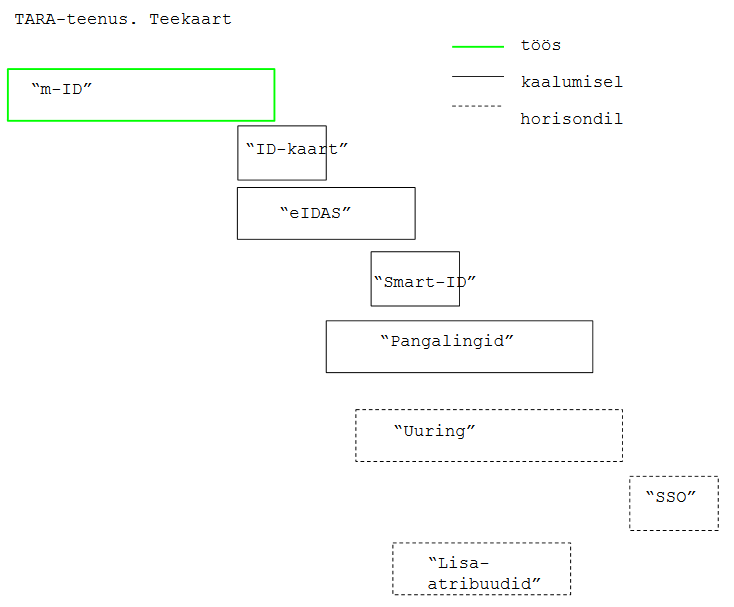
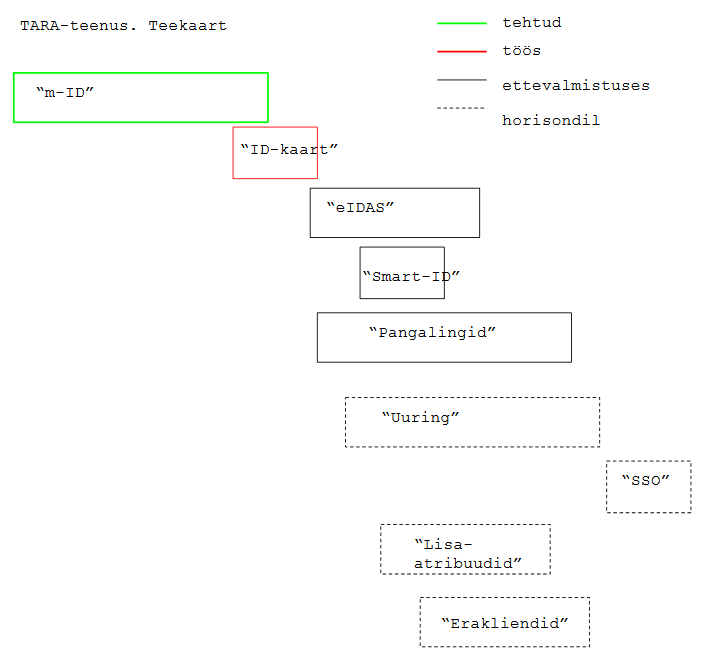
+

diff --git a/Teekaart.md b/Teekaart.md
@@ -18,8 +18,9 @@ Töös, kaalumisel ja horisondil on tööpaketid:
 | ***"Uuring"*** | Ühekordse sisselogimise (Single Sign-On, SSO) teenusele lisamise vajalikkuse ja teostatavuse uuring. Sisaldab _Proof of Concept" (PoC) lahenduse teostust ja selle hindamist. PoC ja hindamine v-o tellitakse eraldi.  | 2 nädalat PoC, 2 nädalat hindamine |
 | ***"SSO"*** | Ühekordse sisselogimise (SSO) teenusele lisamine, lähtudes eelnevalt tehtud uuringu tulemustest. Sisaldab uuringus tehtud PoC lahenduse viimistlemist, dokumenteerimist ja testimist. | 2 nädalat |
 | ***"Lisaatribuudid"*** | Teenuse laiendamine täiendavate atribuutide pakkumisega. Nt päring äriregistrisse esindusõiguse kindlakstegemiseks, päring Rahvastikuregistrisse, võimalik, et päring Personali- ja palgaandmete andmekogusse (SAP-i). | 2 nädalat |
+| ***Erakliendid*** | Tehnilised ja protseduurilised täiendused, mis võimaldavad teenust pakkuda ka erasektorile (teenuse kasutuse arvestus, arveldamine jms) |  |
 
-## I arendusjärk (töös)
+## I arendusjärk (valmis)
 
 | teetähis | tööd | tulemus | orienteeruv, minimaalne ajakava |
 |----------|------|---------|--------------|
@@ -29,40 +30,29 @@ Töös, kaalumisel ja horisondil on tööpaketid:
 | Testteenus avatud | RIA: 1) paneb üles keskkonna, mille vastu liidestujad saavad oma arendusi testida; 2) edaspidi teenindab liidestujaid liideste testimisel (konf-ne jms) | Liitujad saavad oma liideseid testteenuse vastu testida | 1 nädal |
 | Teenuse avamine toodangus | RIA: 1) avab teenuse toodangukeskkonna; 2) edaspidi laseb teenusekasutajad (pärast testide läbimist) toodangusse | | 1 nädal |
 
-Arendustööd:
+Arendustööd:<br>
 1)	OpenID Connect serveri ülespanek (joonisel „OpenID Connect liidese haldur“)<br>
-valida sobiv teek, võiks olla Java-põhine; otsus kooskõlastada Tellijaga. Seadistada ja täiendada teeki nii, et tarkvara teostab esmase autentimise kasutusloo [kavand].
-
+valida sobiv teek, võiks olla Java-põhine; otsus kooskõlastada Tellijaga. Seadistada ja täiendada teeki nii, et tarkvara teostab esmase autentimise kasutusloo [kavand].<br>
 2)	Makettrakenduse loomine<br>
-koostada RIA rakendus, mis etendab autentimisteenust kasutavat Eesti e-teenust. Makettrakenduse eesmärk on testida loodavat RIA autentimisteenust. Selleks valida sobiv OpenID Connect kliendi teek. Ei pea olema Java.
-
+koostada RIA rakendus, mis etendab autentimisteenust kasutavat Eesti e-teenust. Makettrakenduse eesmärk on testida loodavat RIA autentimisteenust. Selleks valida sobiv OpenID Connect kliendi teek. Ei pea olema Java.<br>
 3)	mobiil-ID autentija loomine<br>
-teostada komponent, mis teostab Eesti mobiil-ID-ga autentimise. Siduda mobiil-ID autentija  ja OpenID Connect liidese haldur tervikuks. 
+teostada komponent, mis teostab Eesti mobiil-ID-ga autentimise. Siduda mobiil-ID autentija  ja OpenID Connect liidese haldur tervikuks.<br>
+Arvestada edasise tööde järjekorraga, vt joonis ja [kavand]: 1) kasutusloo autentimise olemasolu kontroll teostamine; 2) kasutusloo väljalogimine teostamine; 3) komponentide Seansihaldur ja selle koosseisus Seansihoidla teostamine; 4) komponendi Isikutuvastusportaal teostamine (võimaldab kasutajal valida mitme autentimismeetodi vahel); 5) liidestamine eIDAS konnektorteenusega (vajalik välismaalaste autentimisel).<br>
 
-Arvestada edasise tööde järjekorraga, vt joonis ja [kavand]: 1) kasutusloo autentimise olemasolu kontroll teostamine; 2) kasutusloo väljalogimine teostamine; 3) komponentide Seansihaldur ja selle koosseisus Seansihoidla teostamine; 4) komponendi Isikutuvastusportaal teostamine (võimaldab kasutajal valida mitme autentimismeetodi vahel); 5) liidestamine eIDAS konnektorteenusega (vajalik välismaalaste autentimisel).
-
-## II arendusjärk 
+## II arendusjärk (töös)
 
 Eesmärk: lisada TARA-le ID-kaardiga autentimise funktsionaalsus
 
-Tööd:
-
-1 täiendada liitumisjuhendit ja tehnilist kirjeldust. (uue autentimismeetodi kood - "idcard").
-
-2 täiendada autentimise kasutajaliidest - autentimismeetodi valik
-
-3 ID-kaardiga autentimise komponent (serdi võtmine F5-st)
-TARA-Server (CAS) muudatused päringut x509 sertifikaadi lugemiseks ning töötlemiseks (info lugemine sertifikaadilt ja atribuutide lisamine ID Tokenisse)
-
-4 kehtivuskinnituse päring (OCSP)
-
-5 testistrateegia, -plaani ja -testide vastav täiendamine
-
-6 täiendada nii, et saaks tagastada eIDAS autentimistaset. Igale autentimismeetodile peab konfiguratsioonis saama omistada autentimistaseme. Esialgu on nii m-ID kui ka ID-kaardi autentimistase määratlemata. Autentimistase esitatakse identsustõendis (v.a kui autentimistase on määratlemata).
-
-7 makettrakenduse täiendamine nii, et testimine oleks hõlpsam (makettrakendus kuvab sirvijas identsustõendi)
-
-8 _hardening_-tegevused - mitmesugused läbivaatused, ülekontrollid ja vajadusel tarkvara täiendused, suunaga teenuse turvalisuse tagamisele. 
+Tööd:<br>
+1 täiendada liitumisjuhendit ja tehnilist kirjeldust. (uue autentimismeetodi kood - "idcard").<br>
+2 täiendada autentimise kasutajaliidest - autentimismeetodi valik<br>
+3 ID-kaardiga autentimise komponent (serdi võtmine F5-st)<br>
+TARA-Server (CAS) muudatused päringut x509 sertifikaadi lugemiseks ning töötlemiseks (info lugemine sertifikaadilt ja atribuutide lisamine ID Tokenisse)<br>
+4 kehtivuskinnituse päring (OCSP)<br>
+5 testistrateegia, -plaani ja -testide vastav täiendamine<br>
+6 täiendada nii, et saaks tagastada eIDAS autentimistaset. Igale autentimismeetodile peab konfiguratsioonis saama omistada autentimistaseme. Esialgu on nii m-ID kui ka ID-kaardi autentimistase määratlemata. Autentimistase esitatakse identsustõendis (v.a kui autentimistase on määratlemata).<br>
+7 makettrakenduse täiendamine nii, et testimine oleks hõlpsam (makettrakendus kuvab sirvijas identsustõendi)<br>
+8 _hardening_-tegevused - mitmesugused läbivaatused, ülekontrollid ja vajadusel tarkvara täiendused, suunaga teenuse turvalisuse tagamisele.<br>
 
 -----
 
